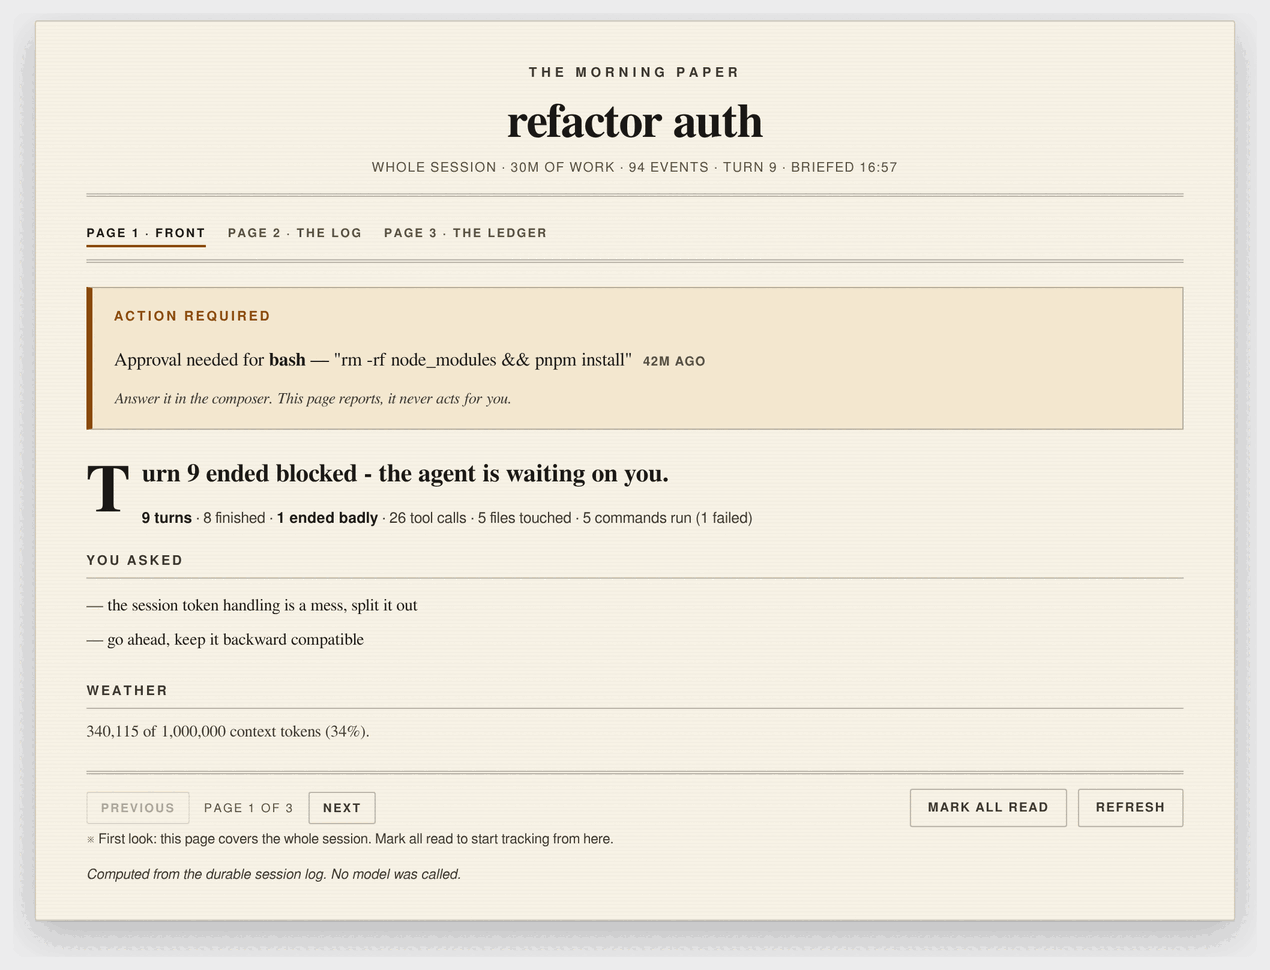
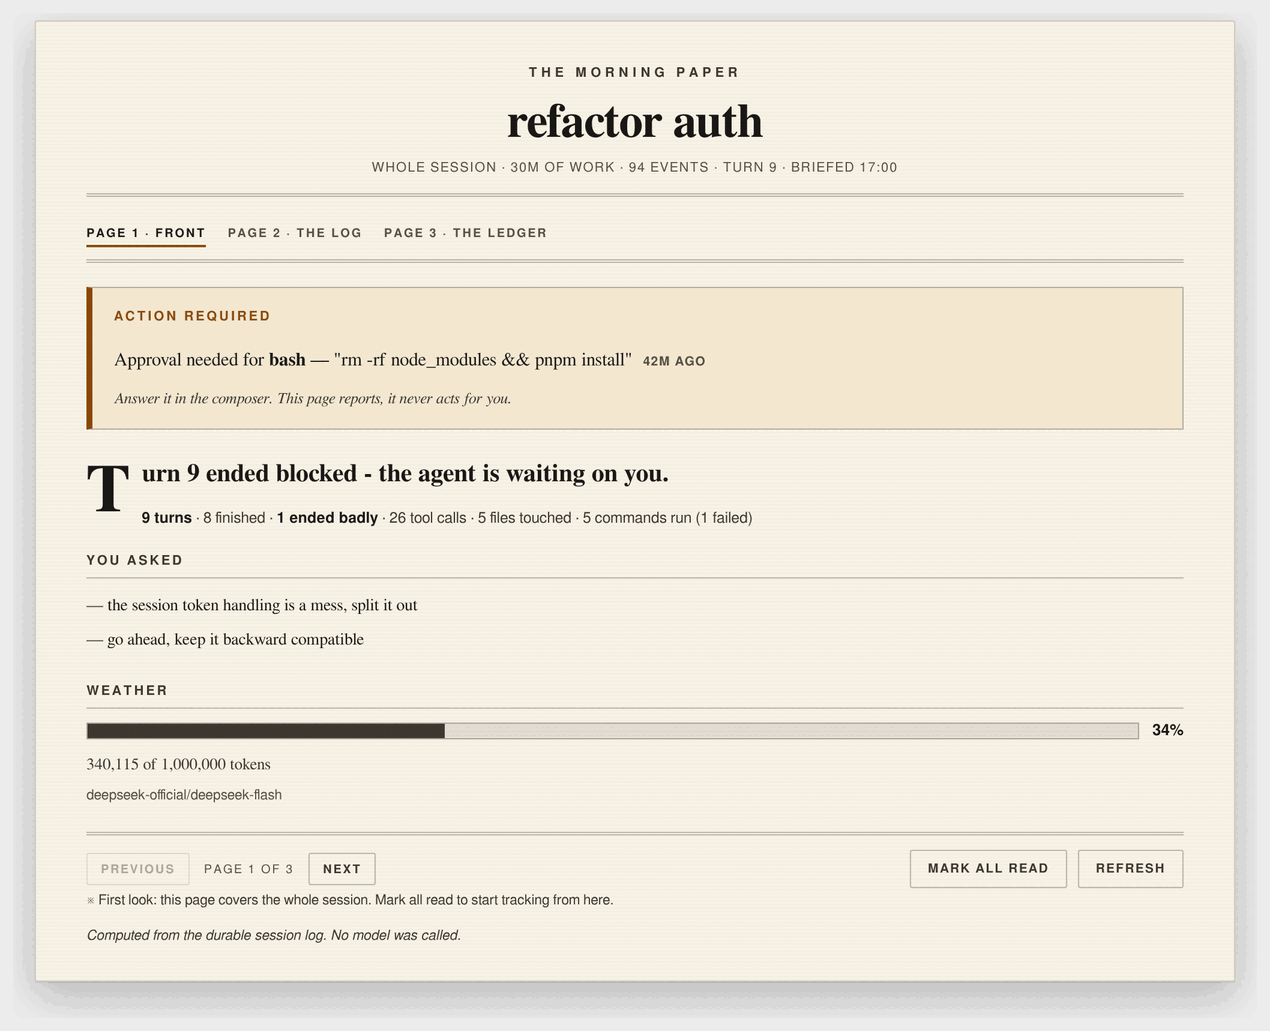
Make WEATHER a gauge, and name the route it measured
A percentage buried in a sentence is the one thing you cannot read at a
glance, which is the entire point of a weather line. WEATHER is now a filled
bar with the percentage beside it, the raw token figures underneath, and the
provider/model the measurement came from.

The bar turns to the accent colour once the window is three-quarters full,
because compaction fires on pressure and that is genuinely news.

The route was already being resolved for the ceiling but was not shown; it is
now part of the weather object, so the page can say which model it measured
rather than leaving the reader to guess.

The /briefing text rendering draws the same gauge in ASCII, so both renderings
agree:

  WEATHER
    ########................   34%  340,115 of 1,000,000 tokens
    route: deepseek-official/deepseek-flash

Tests cover the fill width, the hot threshold, the printed percentage, the raw
figures, the route, and that no gauge is drawn when no ceiling is known.
Screenshots regenerated. 131 assertions.

Changed region(s): [[0.0614, 0.0619, 0.9213, 0.9278], [0.7063, 0.8041, 0.9213, 0.866]]

diff --git a/lib/client.js b/lib/client.js
@@ -172,6 +172,12 @@ window.__ModuleLoader__.load({
 .dmp-pager button:hover { color: var(--dmp-ink); border-bottom-color: var(--dmp-rule); }
 .dmp-pager button.dmp-page-on { color: var(--dmp-ink); border-bottom-color: var(--dmp-accent); }
 .dmp-pagebody { min-height: 8px; }
+.dmp-gauge-row { display: flex; align-items: center; gap: 11px; margin: 3px 0 7px; }
+.dmp-gauge { flex: 1 1 auto; height: 14px; border: 1px solid var(--dmp-rule); background: rgba(27, 25, 23, 0.09); }
+.dmp-gauge > i { display: block; height: 100%; background: var(--dmp-ink-soft); }
+.dmp-gauge > i.dmp-hot { background: var(--dmp-accent); }
+.dmp-gauge-pct { flex: none; font-family: var(--dmp-sans); font-size: 13px; font-variant-numeric: tabular-nums; }
+.dmp-dim { color: var(--dmp-ink-faint); }
 .dmp-folio { display: flex; flex-wrap: wrap; align-items: center; justify-content: space-between; gap: 10px 16px; font-family: var(--dmp-sans); }
 .dmp-nav { display: flex; align-items: center; gap: 12px; font-family: var(--dmp-sans); }
 .dmp-folio-page { font-size: 10px; letter-spacing: 0.14em; text-transform: uppercase; color: var(--dmp-ink-faint); }
@@ -386,7 +392,7 @@ window.__ModuleLoader__.load({
 					failures: "",
 					failureGroups: [],
 					asks: [],
-					weather: "",
+					weather: { kind: "none", text: "", route: null, percent: null, note: null },
 					notes: [],
 					throughSeq: null,
 				};
@@ -458,13 +464,36 @@ window.__ModuleLoader__.load({
 				command: item.command,
 			}));
 
-			const weather = briefing.weather;
-			const weatherText = weather === null || weather === undefined
-				? "Not measured: no live session is attached to this page."
-				: weather.contextWindow === null || weather.contextWindow === undefined
-					? weather.contextTokens.toLocaleString("en-US") + " context tokens. This model declares no ceiling, so no percentage is claimed."
-					: weather.contextTokens.toLocaleString("en-US") + " of " + weather.contextWindow.toLocaleString("en-US") + " context tokens (" + weather.percent + "%)."
-						+ (weather.source === "config" ? " The ceiling comes from this plugin's config, not from the model." : "");
+			// Weather is a gauge, not a sentence: a percentage buried in prose is
+			// the one thing you cannot read at a glance.
+			const weatherRaw = briefing.weather;
+			const routeLabel = weatherRaw !== null && weatherRaw !== undefined
+				&& typeof weatherRaw.provider === "string" && typeof weatherRaw.model === "string"
+				? weatherRaw.provider + "/" + weatherRaw.model
+				: null;
+			let weather;
+			if (weatherRaw === null || weatherRaw === undefined) {
+				weather = { kind: "none", text: "Not measured: no live session is attached to this page.", route: null, percent: null, note: null };
+			} else if (weatherRaw.contextWindow === null || weatherRaw.contextWindow === undefined) {
+				weather = {
+					kind: "count",
+					text: weatherRaw.contextTokens.toLocaleString("en-US") + " context tokens. This model declares no ceiling, so no percentage is claimed.",
+					route: routeLabel,
+					percent: null,
+					note: null,
+				};
+			} else {
+				weather = {
+					kind: "gauge",
+					percent: weatherRaw.percent,
+					fill: Math.max(1, Math.min(100, weatherRaw.percent)),
+					// Compaction fires on pressure, so a nearly-full window is news.
+					high: weatherRaw.percent >= 75,
+					text: weatherRaw.contextTokens.toLocaleString("en-US") + " of " + weatherRaw.contextWindow.toLocaleString("en-US") + " tokens",
+					route: routeLabel,
+					note: weatherRaw.source === "config" ? "The ceiling comes from this plugin's config, not from the model." : null,
+				};
+			}
 
 			const corrections = briefing.corrections ?? {};
 			const correctionsSummary = corrections.toolFailures === 0 && corrections.llmRetries === 0 && corrections.compactions === 0
@@ -526,7 +555,7 @@ window.__ModuleLoader__.load({
 					? corrections.failureGroups.map((group) => group.failure + " ×" + group.count)
 					: [],
 				asks: (Array.isArray(briefing.asks) ? briefing.asks : []).map((ask) => ask.text),
-				weather: weatherText,
+				weather,
 				notes: Array.isArray(briefing.notes) ? briefing.notes : [],
 				throughSeq: briefing.window?.throughSeq ?? null,
 			};
@@ -630,7 +659,25 @@ window.__ModuleLoader__.load({
 							h("ul", { key: "ul", className: "dmp-asks" }, display.asks.map((ask, index) => h("li", { key: "a" + index }, ask))),
 						]));
 					}
-					blocks.push(section(h, "weather", "Weather", [h("p", { key: "s", className: "dmp-empty" }, display.weather)]));
+					const weatherChildren = [];
+					if (display.weather.kind === "gauge") {
+						weatherChildren.push(h("div", { key: "g", className: "dmp-gauge-row" }, [
+							h("span", { key: "b", className: "dmp-gauge" }, h("i", {
+								key: "f",
+								className: display.weather.high ? "dmp-hot" : undefined,
+								style: { width: display.weather.fill + "%" },
+							})),
+							h("b", { key: "p", className: "dmp-gauge-pct" }, Math.round(display.weather.percent) + "%"),
+						]));
+					}
+					weatherChildren.push(h("p", { key: "t", className: "dmp-empty" }, display.weather.text));
+					if (display.weather.route !== null && display.weather.route !== undefined) {
+						weatherChildren.push(h("p", { key: "r", className: "dmp-group dmp-dim" }, display.weather.route));
+					}
+					if (display.weather.note !== null && display.weather.note !== undefined) {
+						weatherChildren.push(h("p", { key: "n", className: "dmp-group dmp-dim" }, display.weather.note));
+					}
+					blocks.push(section(h, "weather", "Weather", weatherChildren));
 					return blocks;
 				},
 			}];

diff --git a/lib/briefing.js b/lib/briefing.js
@@ -896,13 +896,19 @@ export function renderBriefingText(briefing) {
   } else {
     const windowTokens = briefing.weather.contextWindow;
     const percent = briefing.weather.percent;
+    const tokens = briefing.weather.contextTokens;
+    if (windowTokens === null || percent === null) {
+      lines.push(`  ${bar(0, 24)}  ?    ${tokens.toLocaleString('en-US')} context tokens (ceiling unknown)`);
+    } else {
+      lines.push(`  ${bar(percent, 24)}  ${String(Math.round(percent)).padStart(3)}%  ${tokens.toLocaleString('en-US')} of ${windowTokens.toLocaleString('en-US')} tokens`);
+    }
     // A configured ceiling is an assumption, so it is labelled wherever shown.
-    const source = briefing.weather.source === 'config' ? ' [ceiling from plugin config, not declared by the model]' : '';
-    lines.push(
-      windowTokens === null || percent === null
-        ? `  context ${briefing.weather.contextTokens.toLocaleString('en-US')} tokens (limit unknown)`
-        : `  context ${briefing.weather.contextTokens.toLocaleString('en-US')}/${windowTokens.toLocaleString('en-US')} (${String(percent)}%)${source}`,
-    );
+    if (briefing.weather.source === 'config') {
+      lines.push('  ceiling from plugin config, not declared by the model');
+    }
+    if (typeof briefing.weather.provider === 'string' && typeof briefing.weather.model === 'string') {
+      lines.push(`  route: ${briefing.weather.provider}/${briefing.weather.model}`);
+    }
   }
 
   if (briefing.notes.length > 0) {

diff --git a/lib/index.js b/lib/index.js
@@ -146,6 +146,8 @@ export async function resolveWeather(ctx, sessionId, configuredWindow = null, ro
       surfaceTokens: typeof measurement.surfaceTokens === 'number' ? measurement.surfaceTokens : null,
       contextWindow,
       source,
+      provider: typeof provider === 'string' ? provider : null,
+      model: typeof model === 'string' ? model : null,
       percent: contextWindow === null
         ? null
         : Math.round((contextTokens / contextWindow) * 1000) / 10,

diff --git a/CHANGELOG.md b/CHANGELOG.md
@@ -21,11 +21,14 @@ First release.
   cache-hit share derived from billed input only.
 - Fork-inherited events are excluded from the counts and disclosed in a note, so
   a forked session cannot inflate your agent's work with its parent's.
-- Context pressure against the routed model's own declared capacity, read with
-  `ctx.llm.resolveModelInfo()` — the same call automatic compaction uses. A
-  plugin-config ceiling is a fallback for adapters that declare nothing, and is
-  labelled as an assumption. With neither, it says "unknown" rather than
-  inventing a percentage.
+- A context **gauge** on the front page: a filled bar, the percentage, the raw
+  token figures and the route it measured, against the routed model's own
+  declared capacity — read with `ctx.llm.resolveModelInfo()`, the same call
+  automatic compaction uses, on the route taken from the newest `request/header`
+  event. It turns hot once the window is three-quarters full. A plugin-config
+  ceiling is a fallback for adapters that declare nothing, and is labelled as an
+  assumption. With neither, it says "unknown" rather than inventing a percentage.
+  The `/briefing` text rendering draws the same gauge in ASCII.
 
 ### The page
 
@@ -50,5 +53,5 @@ First release.
 - Typed refusals: `BAD_REQUEST`, `SESSION_NOT_FOUND`, `MARKER_AHEAD`,
   `LOG_TOO_LARGE`, `SUBAGENT_OWNED`, `BRIEFING_FAILED`.
 - Context hygiene: answering a briefing appends nothing and reaches no model.
-- 124 assertions in `selftest.mjs`, plus `verify-real-log.mjs` against the
+- 131 assertions in `selftest.mjs`, plus `verify-real-log.mjs` against the
   session logs on the machine.

diff --git a/README.md b/README.md
@@ -74,7 +74,8 @@ YOU ASKED
   - split the session token into its own module, keep it backward compatible
 
 WEATHER
-  context 340,115/1,000,000 (34%)
+  ########................   34%  340,115 of 1,000,000 tokens
+  route: deepseek-official/deepseek-flash
 ```
 
 *(Illustrative output — the shape is exactly what `/briefing` prints.)*
@@ -184,8 +185,10 @@ dsh plugin --profile web remove dsh-morning-paper
 
 ## The context ceiling
 
-WEATHER compares the session's current request pressure against the routed
-model's own declared capacity. DeepSeek's adapter declares one — every model in
+WEATHER is a gauge: a filled bar, the percentage beside it, the raw figures, and
+the route it measured — because a percentage buried in a sentence is the one
+thing you cannot read at a glance. It compares the session's current request
+pressure against the routed model's own declared capacity. DeepSeek's adapter declares one — every model in
 its catalog carries a `contextWindow`, 1,000,000 tokens on the current routes —
 and the plugin reads it through `ctx.llm.resolveModelInfo()`, the same call
 automatic compaction uses to decide when to compact. So the percentage is the
@@ -306,7 +309,7 @@ Every guard runs before any work, so a refused request changes nothing.
 ## Tests
 
 ```sh
-node selftest.mjs         # 130 assertions, no network, no browser, no build
+node selftest.mjs         # 131 assertions, no network, no browser, no build
 node verify-real-log.mjs  # build briefings from the session logs on this machine
 node tools/screenshot.mjs # regenerate the images on this page (repo tool)
 ```
